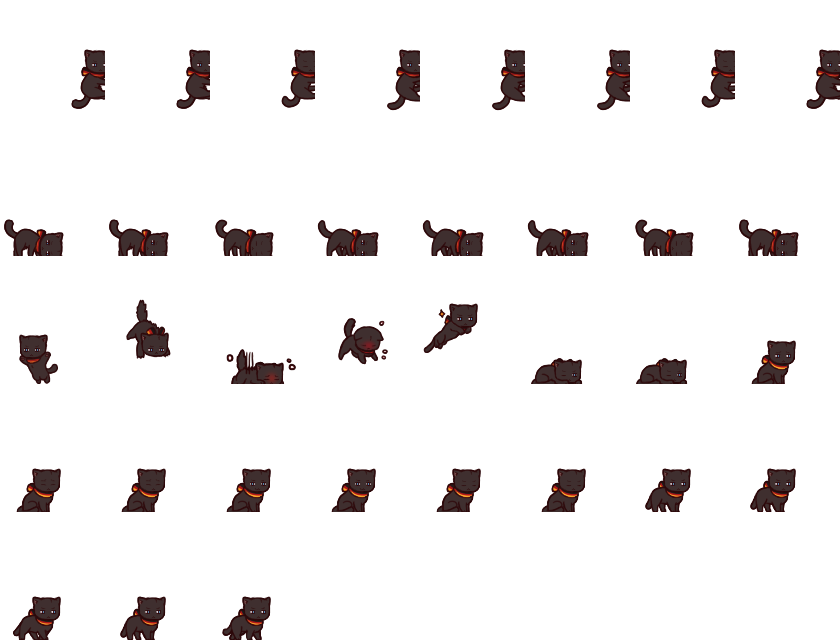
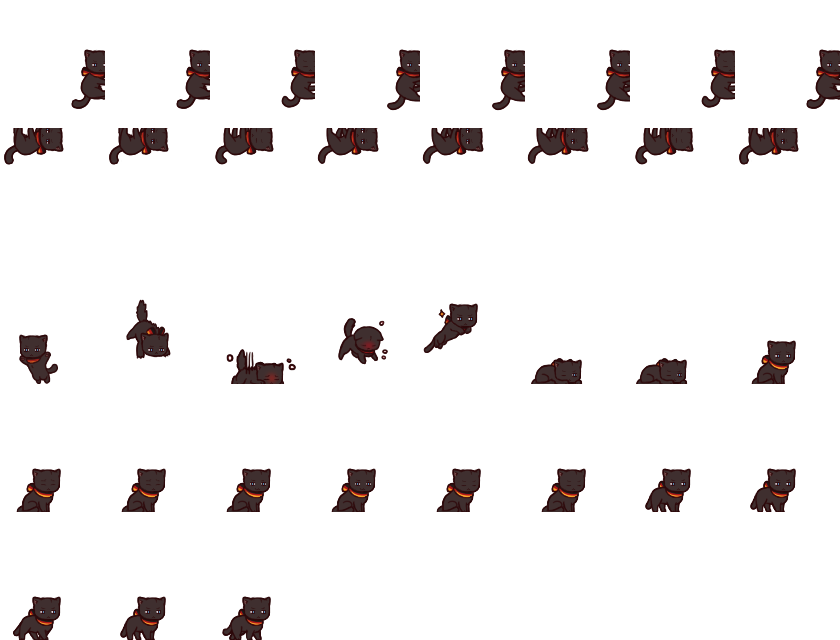
fix(pet): 天花板倒挂方向反了——CRAWL 行本就不该垂直翻转
行 8（CRAWL）画的就是**脚底向上**的倒挂姿态：逐帧包围盒实测，内容贴帧**顶**
（y 0..40），五只素材完全一致（CRAWL 纵向都是 127px）。切图时那个 `flipY: true`
把它翻正了，宠物于是**头朝上吊在天花板上**。

当初开 flipY 的依据只有一个：参考项目 `SpriteAnimationView.calculateFlip` 的注释写着
"垂直翻转：因为是倒挂着的，头朝下"，并据此断定它代码里那句 `false` 是它自己的 bug。
**反了**——那个 `false` 是对的，原图不需要翻转。这和行 4 那次是同一类错误：
拿参考项目的说法当依据，没自己量素材。

改动：
- shimeji-sheet.mjs：Crawl 组去掉 flipY，并写下为什么不能加回来
- import-shimeji.mjs：perchGaps 的 CRAWL 侧改用未翻转的包围盒；
  ceiling 上界从 0.6 放宽到 1（未翻转 ⇒ 内容顶边到锚点≈整个画布高，实测 0.992，
  照 0.6 卡会误报）；下界保留，它防的是"内容跑到帧中间"这种素材换了的信号
- perch.ts：ceilingGapRatio 的说明与默认值（0.3 → 0.99）跟着改；
  ceilingY 的注释同步（原先那句"锚点即内容底边"已不成立）
- 5 只 Shimeji 全部重切并安装

判据：切图输出的 `CRAWL 纵向 127px → 0.992` 五只完全一致（交叉印证内容贴帧顶）；
测试 470 + 283 passed，两个 tsc 干净。
⚠ 方向本身日志验不了，需要人眼确认一次。

diff --git a/packages/pet-core/src/behavior/perch.ts b/packages/pet-core/src/behavior/perch.ts
@@ -19,7 +19,7 @@
  *   | 行    | 内容在帧内的位置        | 距锚点（帧底中心） | 用途 |
  *   | ----- | ----------------------- | ------------------ | ---- |
  *   | CLIMB | 右边贴帧右缘，竖向 36×62 | 右侧 55px / 底 18px | 贴墙 |
- *   | CRAWL | 切图时已垂直翻转，贴帧底 | 顶部 39px          | 倒挂 |
+ *   | CRAWL | **未翻转**，脚底向上、内容贴帧顶 | 内容顶边距锚点 127px | 倒挂 |
  *
  * **早先这里只有一个 `gapRatio = 0.15`**，是把"素材留白"当成了一个统一的量——
  * 结果爬墙时宠物压在窗口上 36px、爬到顶转爬行时整个飘到窗口上沿以上
@@ -65,10 +65,16 @@ export interface PerchConfig {
    */
   wallGapRatio: number
   /**
-   * 爬天花板时**背与天花板的缝隙**，同样按模型高度比例。
+   * 爬天花板时**锚点到窗口上沿的距离**，按模型高度（画布高 × 缩放）的比例。
    *
-   * CRAWL 行在切图时已垂直翻转（见 `import-shimeji.mjs` 的 `flipY`），内容顶边
-   * 距锚点 39px / 128 → 0.30。
+   * 这个比值实际是「**CRAWL 行的内容顶边离锚点（帧底）有多远**」：内容顶边贴到
+   * 窗口上沿，锚点自然落在它下方这么远。数值由切图期从素材实测
+   * （`import-shimeji.mjs` 的 `perchGaps`，五只猫同一规格，共用这个值）。
+   *
+   * ⚠ CRAWL 行**不做垂直翻转**（2026-09-21 改）：素材本身就是**脚底向上**画好的
+   * 倒挂姿态（内容贴帧**顶**），所以这个比值接近 1（实测 127/128 ≈ 0.992），
+   * 而不是"一个内容高"那么小。曾经在切图期翻转过一次——宠物于是**头朝上吊在
+   * 天花板上**，方向正好反了。
    *
    * 注意方向：宠物是**倒挂在窗口上沿之下**的，所以锚点比上沿**大**（见 `ceilingY`）。
    */
@@ -79,7 +85,9 @@ export const PERCH_DEFAULTS: PerchConfig = {
   attachDistance: 24,
   climbSpeed: 45,
   wallGapRatio: 0.43,
-  ceilingGapRatio: 0.3,
+  // 兜底值。实际运行时由 manifest 的 `perchGaps.ceiling` 覆盖（见 PetWanderDriver），
+  // 素材换了会自己跟着变；这里跟的是这套 Shimeji 素材的实测值。
+  ceilingGapRatio: 0.99,
 }
 
 /**
@@ -121,8 +129,9 @@ export function wallX(rect: PerchRect, side: PerchSide, cfg: PerchConfig = PERCH
 /**
  * 天花板（窗口上边缘）对应的锚点 y —— 宠物**倒挂在上沿之下**。
  *
- * 所以是**加**不是减：素材的 CRAWL 行在切图时已垂直翻转成"内容贴帧底"，
- * 锚点即内容底边，自然落在上沿下方一个"内容高度"处。
+ * 所以是**加**不是减：锚点（帧底）落在上沿下方「内容顶边到锚点的距离」处，
+ * 于是**内容顶边正好贴上沿**。CRAWL 行未做翻转，内容本身就贴帧顶，
+ * 这个距离约等于整个画布高（见 `ceilingGapRatio` 的说明）。
  * 早先写成 `rect.y - gap` 时，宠物会飘到窗口上沿**以上**（实测在 208，
  * 而上沿是 250）。
  */
